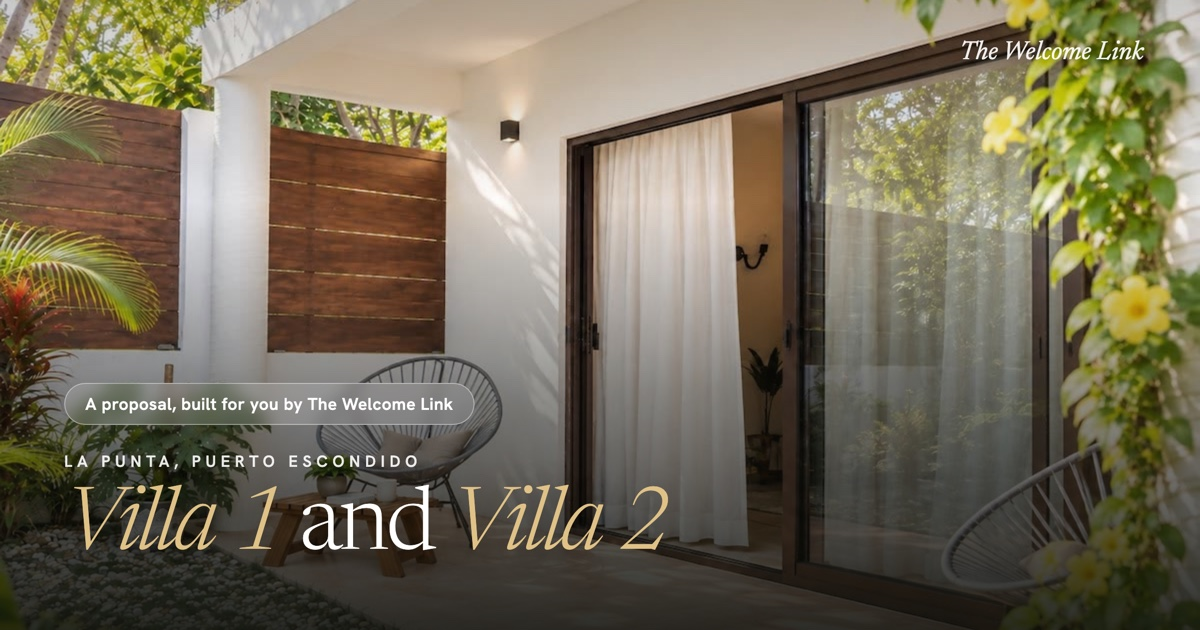
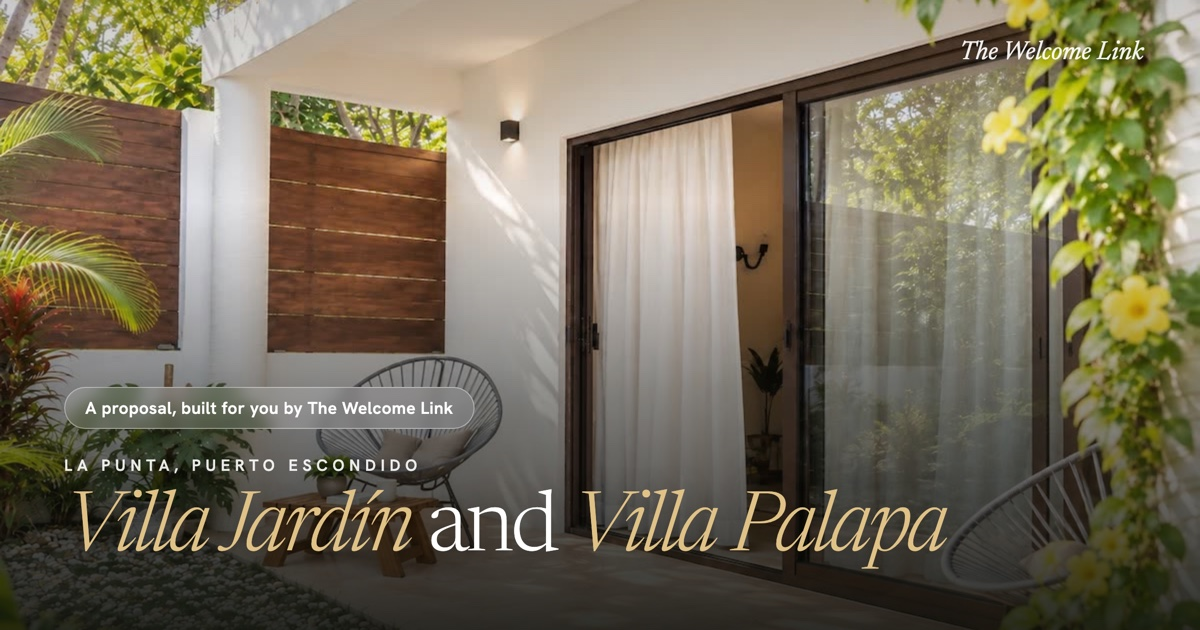
la-punta-villas: bring back villa names, describe Signature as a video walkthrough
Restores Villa Jardín / Villa Palapa (working names) and the matching OG
card. Signature now promises a cinematic video walkthrough of each villa
playing behind the page, instead of 'the scroll you just saw', and the
motion note explains the photos become video on the finished site.

Changed region(s): [[0.0617, 0.7238, 0.8017, 0.9048], [0.0617, 0.6032, 0.4008, 0.6937]]

diff --git a/la-punta-villas/index.html b/la-punta-villas/index.html
@@ -13,8 +13,8 @@
 <meta name="viewport" content="width=device-width, initial-scale=1.0, viewport-fit=cover">
 <meta name="robots" content="noindex">
 <!-- FILL: villa names + host name in description / OG / title -->
-<meta name="description" content="A proposal for Anna: one beautiful page for Villa 1 and Villa 2 in La Punta, so the guests who already love them can find them and book direct.">
-<meta property="og:title" content="Villa 1 and Villa 2 · A proposal for Anna">
+<meta name="description" content="A proposal for Anna: one beautiful page for Villa Jardín and Villa Palapa in La Punta, so the guests who already love them can find them and book direct.">
+<meta property="og:title" content="Villa Jardín and Villa Palapa · A proposal for Anna">
 <meta property="og:description" content="One bilingual page for both villas in La Punta, found on Google, with a live calendar and booking on WhatsApp. A proposal from The Welcome Link.">
 <!-- FILL: slug in the four URLs below -->
 <meta property="og:image" content="https://thewelcomelink.com/la-punta-villas/images/og.jpg">
@@ -25,7 +25,7 @@
 <meta name="twitter:card" content="summary_large_image">
 <meta name="twitter:image" content="https://thewelcomelink.com/la-punta-villas/images/og.jpg">
 <link rel="icon" type="image/svg+xml" href="/favicon.svg">
-<title>Villa 1 and Villa 2 · A proposal · The Welcome Link</title>
+<title>Villa Jardín and Villa Palapa · A proposal · The Welcome Link</title>
 <link rel="preconnect" href="https://fonts.googleapis.com">
 <link rel="preconnect" href="https://fonts.gstatic.com" crossorigin>
 <link href="https://fonts.googleapis.com/css2?family=Newsreader:ital,opsz,wght@0,6..72,300;0,6..72,400;0,6..72,500;0,6..72,600;1,6..72,300;1,6..72,400&family=Hanken+Grotesk:wght@300;400;500;600;700&display=swap" rel="stylesheet">
@@ -248,8 +248,8 @@
       <div class="eyebrow"><span>La Punta, Puerto Escondido</span></div>
       <!-- FILL: villa names (VILLA 1 / VILLA 2) -->
       <h1>
-        <span class="lang-en"><em>Villa 1</em> and <em>Villa 2</em></span>
-        <span class="lang-es"><em>Villa 1</em> y <em>Villa 2</em></span>
+        <span class="lang-en"><em>Villa Jardín</em> and <em>Villa Palapa</em></span>
+        <span class="lang-es"><em>Villa Jardín</em> y <em>Villa Palapa</em></span>
       </h1>
       <!-- FILL: host name -->
       <p class="tag">
@@ -284,8 +284,8 @@
       </div>
     </div>
     <p class="lede reveal">
-      <span class="lang-en">This page changes that. Each villa gets a home on the web (Villa 1 and Villa 2 for now, and a real name whenever you choose one), so the people who already love your place can find you, and book with you, directly.</span>
-      <span class="lang-es">Esta página cambia eso. Cada villa tiene su propio lugar en internet (Villa 1 y Villa 2 por ahora, y un nombre de verdad cuando tú lo elijas), para que la gente que ya ama tu lugar te encuentre, y reserve contigo, directamente.</span>
+      <span class="lang-en">This page changes that. Each villa gets a name of its own (Villa Jardín and Villa Palapa are just working names, you choose) and a home on the web, so the people who already love your place can find you, and book with you, directly.</span>
+      <span class="lang-es">Esta página cambia eso. Cada villa tiene su propio nombre (Villa Jardín y Villa Palapa son nombres provisionales, tú eliges) y su propio lugar en internet, para que la gente que ya ama tu lugar te encuentre, y reserve contigo, directamente.</span>
     </p>
     <p class="pull reveal">
       <span class="lang-en">Ten years in La Punta. Two villas in one quiet garden. They deserve a front door of their own.</span>
@@ -319,17 +319,17 @@
     </figcaption>
   </figure>
   <figure class="moment">
-    <img src="images/scroll-02.jpg" alt="Villa 2 with its palm-thatched roof" loading="lazy">
+    <img src="images/scroll-02.jpg" alt="Villa Palapa with its palm-thatched roof" loading="lazy">
     <figcaption class="cap"><span class="num">ii</span>
       <span class="line">
-        <span class="lang-en">Villa 2, under a traditional palm-thatched roof.</span>
-        <span class="lang-es">Villa 2, bajo un techo tradicional de palapa.</span>
+        <span class="lang-en">Villa Palapa, under a traditional palm-thatched roof.</span>
+        <span class="lang-es">Villa Palapa, bajo un techo tradicional de palapa.</span>
         <span class="who"><span class="lang-en">Dogs welcome, just tell Anna about yours</span><span class="lang-es">Perritos bienvenidos, solo cuéntale a Anna del tuyo</span></span>
       </span>
     </figcaption>
   </figure>
   <figure class="moment">
-    <img src="images/scroll-03.jpg" alt="Inside Villa 2: king bed, desk and thatched ceiling" loading="lazy">
+    <img src="images/scroll-03.jpg" alt="Inside Villa Palapa: king bed, desk and thatched ceiling" loading="lazy">
     <figcaption class="cap"><span class="num">iii</span>
       <span class="line">
         <span class="lang-en">A king bed, a desk by the window, and fast WiFi for the mornings you work.</span>
@@ -338,11 +338,11 @@
     </figcaption>
   </figure>
   <figure class="moment">
-    <img src="images/scroll-04.jpg" alt="The bedroom in Villa 1" loading="lazy">
+    <img src="images/scroll-04.jpg" alt="The bedroom in Villa Jardín" loading="lazy">
     <figcaption class="cap"><span class="num">iv</span>
       <span class="line">
-        <span class="lang-en">Villa 1. Cool, bright and calm, with good linens and AC after a day of sun.</span>
-        <span class="lang-es">Villa 1. Fresca, luminosa y tranquila, con buena ropa de cama y aire acondicionado después de un día de sol.</span>
+        <span class="lang-en">Villa Jardín. Cool, bright and calm, with good linens and AC after a day of sun.</span>
+        <span class="lang-es">Villa Jardín. Fresca, luminosa y tranquila, con buena ropa de cama y aire acondicionado después de un día de sol.</span>
         <span class="who"><span class="lang-en">4.93 stars from 40 guests</span><span class="lang-es">4.93 estrellas de 40 huéspedes</span></span>
       </span>
     </figcaption>
@@ -369,8 +369,8 @@
   <div class="vision-note">
     <div class="inner">
       <p class="reveal">
-        <span class="lang-en"><strong>A note on the motion.</strong> The finished site uses short motion clips made from your existing photos. No photo shoot needed, and the spaces always look exactly as they are.</span>
-        <span class="lang-es"><strong>Sobre el movimiento.</strong> El sitio final usa clips cortos con movimiento hechos a partir de tus fotos actuales. No hace falta una sesión de fotos, y los espacios siempre se ven tal como son.</span>
+        <span class="lang-en"><strong>On the finished site, these photos move.</strong> Each villa gets its own cinematic video walkthrough: the gate, the garden, the room, the terrace, the walk to the sea. It plays softly behind the words as guests scroll, so it feels like arriving. Made from your existing photos, no photo shoot needed, and the spaces always look exactly as they are.</span>
+        <span class="lang-es"><strong>En el sitio final, estas fotos cobran vida.</strong> Cada villa tiene su propio recorrido en video, cinematográfico: el portón, el jardín, el cuarto, la terraza, la caminata al mar. Se reproduce suave detrás del texto mientras el huésped baja por la página, y se siente como llegar. Hecho con tus fotos actuales, sin sesión de fotos, y los espacios siempre se ven tal como son.</span>
       </p>
     </div>
   </div>
@@ -476,11 +476,12 @@
       <div class="plan reveal">
         <div class="pname"><em>Signature</em></div>
         <div class="price">16,000<small>MXN</small></div>
-        <p class="pdesc"><span class="lang-en">Everything above, plus the cinematic scroll-through with motion clips for each villa.</span><span class="lang-es">Todo lo anterior, más el recorrido cinematográfico con clips en movimiento para cada villa.</span></p>
+        <p class="pdesc"><span class="lang-en">Everything above, plus a cinematic video walkthrough of each villa.</span><span class="lang-es">Todo lo anterior, más un recorrido en video cinematográfico de cada villa.</span></p>
         <ul>
           <li><span class="lang-en">Everything in Direct</span><span class="lang-es">Todo lo de Direct</span></li>
-          <li><span class="lang-en">The slow, arriving-at-the-villa scroll you just saw</span><span class="lang-es">El recorrido lento, como llegar a la villa, que acabas de ver</span></li>
-          <li><span class="lang-en">Motion clips made from your own photos, for each villa</span><span class="lang-es">Clips en movimiento hechos con tus propias fotos, para cada villa</span></li>
+          <li><span class="lang-en">A video walkthrough of each villa, from the gate to the sea</span><span class="lang-es">Un recorrido en video de cada villa, del portón al mar</span></li>
+          <li><span class="lang-en">Plays softly behind the page as guests scroll, so it feels like arriving</span><span class="lang-es">Se reproduce suave detrás de la página mientras bajan, y se siente como llegar</span></li>
+          <li><span class="lang-en">Made from your own photos, no photo shoot needed</span><span class="lang-es">Hecho con tus propias fotos, sin sesión de fotos</span></li>
         </ul>
       </div>
     </div>
@@ -524,7 +525,7 @@
       <span class="lang-es">De un vecino de La Punta a otra, sería un gusto construir esto contigo. Trevor</span>
     </p>
     <!-- FILL: WhatsApp prefill (villa names), URL-encoded -->
-    <a class="btn-wa reveal" href="https://wa.me/529542061152?text=Hola%20Trevor%2C%20vi%20la%20propuesta%20para%20Villa%201%20y%20Villa%202." target="_blank" rel="noopener">
+    <a class="btn-wa reveal" href="https://wa.me/529542061152?text=Hola%20Trevor%2C%20vi%20la%20propuesta%20para%20Villa%20Jard%C3%ADn%20y%20Villa%20Palapa." target="_blank" rel="noopener">
       <svg viewBox="0 0 24 24" fill="currentColor" aria-hidden="true"><path d="M12.04 2c-5.46 0-9.91 4.45-9.91 9.91 0 1.75.46 3.45 1.32 4.95L2 22l5.25-1.38c1.45.79 3.08 1.21 4.790 1.21 5.46 0 9.91-4.45 9.91-9.91 0-2.65-1.03-5.14-2.9-7.01A9.82 9.82 0 0 0 12.04 2zm0 18.15c-1.52 0-3.01-.41-4.31-1.18l-.31-.18-3.2.84.85-3.12-.2-.32a8.2 8.2 0 0 1-1.26-4.36c0-4.540 3.7-8.230 8.24-8.230 2.2 0 4.27.86 5.82 2.42a8.18 8.18 0 0 1 2.41 5.82c0 4.54-3.69 8.24-8.23 8.24zm4.52-6.16c-.25-.12-1.47-.72-1.690-.81-.23-.08-.39-.12-.56.12-.16.25-.64.81-.79.97-.14.17-.29.19-.54.06-.25-.12-1.05-.39-1.99-1.23-.74-.66-1.23-1.47-1.38-1.72-.14-.25-.01-.38.11-.51.11-.11.25-.29.37-.43.13-.14.17-.25.25-.41.08-.17.04-.31-.02-.43-.06-.12-.56-1.34-.76-1.84-.2-.48-.41-.42-.56-.43h-.48c-.17 0-.43.06-.66.31-.22.25-.86.85-.86 2.07 0 1.22.89 2.4 1.01 2.56.12.17 1.75 2.67 4.23 3.74.59.26 1.05.41 1.410.52.59.19 1.13.16 1.56.1.48-.07 1.47-.6 1.67-1.18.21-.58.21-1.07.14-1.18-.06-.1-.22-.16-.47-.28z"/></svg>
       <span class="lang-en">Let's build it</span><span class="lang-es">Hagámoslo</span>
     </a>
